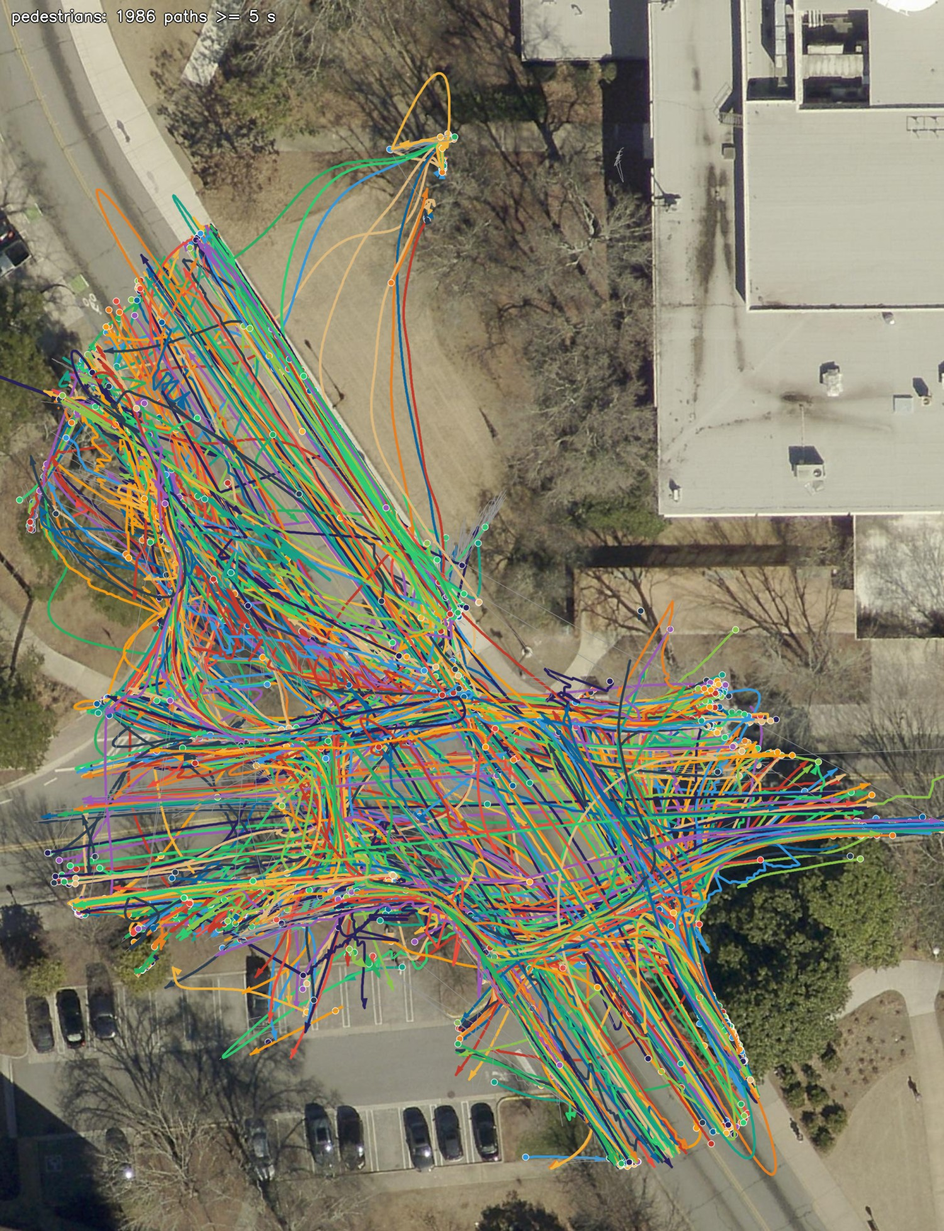
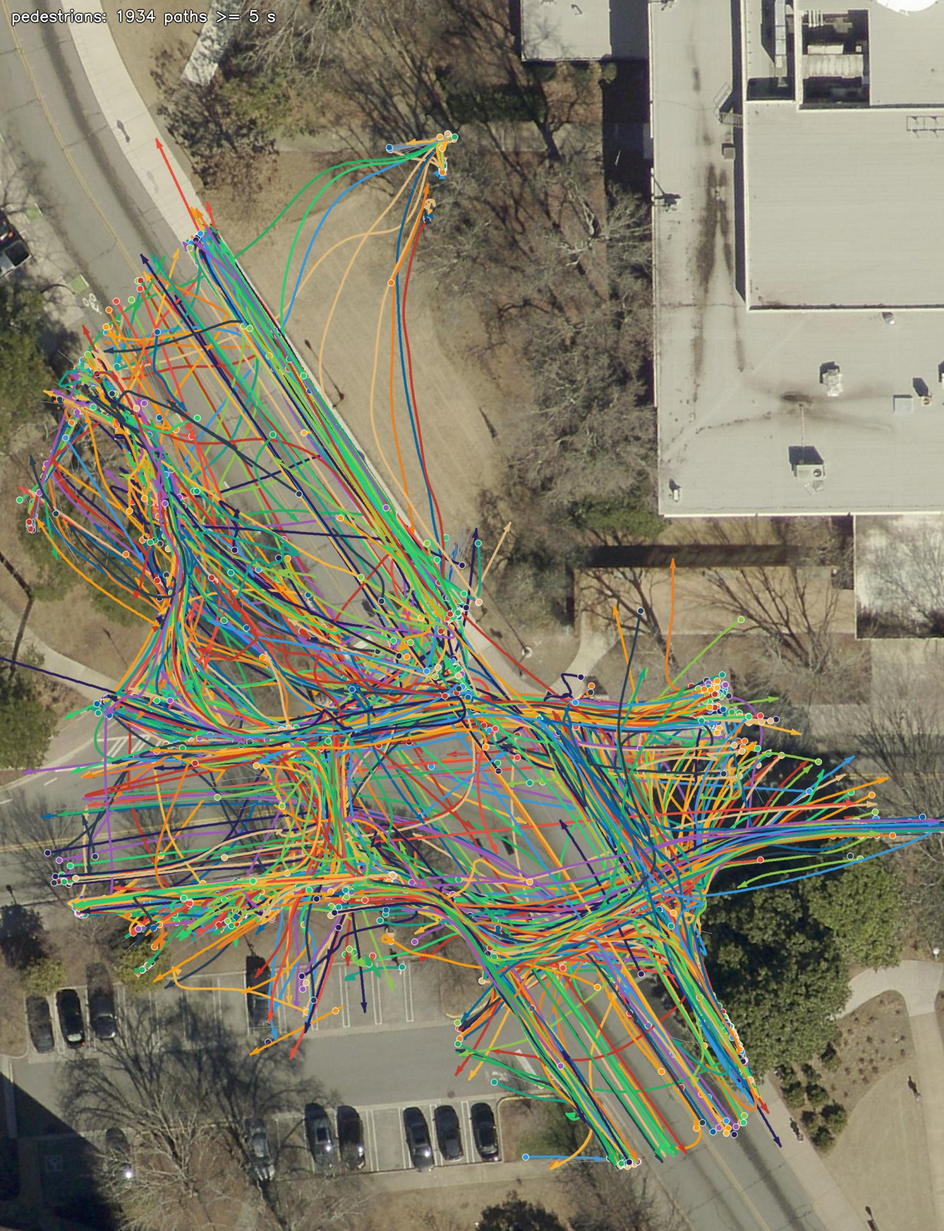
Pedestrians: the smoothed centre only, cut where a body could not have moved
The spikes on pedestrian paths were the measured foot point: a fallback
drew it for 313 tracks whenever the smoothed centre looked lost, and
the foot point is the mask's bottom edge, which wobbles 0.4 m between
frames on ordinary measured rows. The fallback is gone, with everything
that served it (centre_or_foot, reach, the body table, --centre-clamp).

A pedestrian or bicycle is drawn from its smoothed centre, and only in
stretches where a step does not exceed what that body can do (4 m/s for
a person, 10 for a cyclist) and the position lies within what the
cameras can see (55 m from the pole; detections stop at 45). Stretches
under a second are discarded. A short median on the centre was tried
and changed nothing: the 222 "pedestrians" it would have kept move 6 to
9 m/s for ten seconds at a stretch, which is a cyclist labelled person
or two people fused into one, and either way not a pedestrian path.

Paths now break at any missing processed frame rather than only at gaps
over a second, so a cut can never be bridged by a line. The plausibility
report counts pedestrian and bicycle paths too.

71 minutes: 0 vehicle paths and 0 pedestrian paths flagged; 335 vehicle
and 1,934 pedestrian paths drawn; 2,960 objects. render_fused.py uses
the same person_runs(), so the video agrees with the figures.

diff --git a/pipeline/export_tracks.py b/pipeline/export_tracks.py
@@ -22,6 +22,7 @@ queue, the bike box - is never cut. Pedestrians are never cut; standing at a ker
 """
 import argparse
 import csv
+import glob
 import json
 import math
 import os
@@ -136,73 +137,53 @@ def vehicle_runs(T, P, cls, field, min_s=2.0, min_m=5.0):
     return runs
 
 
-BODY = {"Pedestrian": (0.6, 0.5), "Passenger Vehicle": (4.5, 1.9), "Truck": (5.5, 2.1),
-        "Bus": (10.5, 2.6), "Motorcycle": (2.0, 0.8), "Bicycle": (1.8, 0.6)}    # metres, length x width
-
-
-def reach(cls):
-    """how far an object's centre can possibly sit from its own foot point: half its body diagonal,
-    plus 30 cm for where the foot point actually lands. The same bound centre_from_box already
-    enforces inside its own solve (render_demo.py), applied once more to the fused result."""
-    L, W = BODY.get(cls, (4.5, 1.9))
-    return 0.5 * math.hypot(L, W) + 0.3
-
-
-def centre_or_foot(rows, cls, clamp, runaway_share=0.05):
-    """For one object's rows in frame order: where to draw it, or None for a row not to draw.
-    Returns [(e, n, fell_back) | None, ...].
-
-    Each row carries a measured foot point and a Kalman-smoothed centre. The centre is the better
-    position while the smoother is tracking its object, and a runaway when it is not: on this
-    recording one pedestrian's centre ends 676 m from a foot point that never left a 60 m circle.
-    The push, the distance between the two, tells them apart: a real centre cannot be further from
-    its foot point than the body allows, and every class's 99th-percentile push sits near one reach.
-
-    The decision is made once per track, never per row. Before any of this existed, the figures
-    drew the centre alone and had no reversal and no step over 30 m/s on 396 vehicle paths. Three
-    row-wise versions then each drew artefacts: a hard switch flipped a bus every frame (489
-    reversals), hysteresis made the switch itself a 6.8 m jump, and a continuous blend jumped
-    whenever the foot point it was blending toward re-anchored on another part of the car. The
-    centre is smooth and the foot point is not, and any row-wise mix of the two inherits the jumps.
-
-    So: if more than `runaway_share` of a track's rows have a push beyond `clamp` reaches, the
-    smoother has lost this object and the whole track is drawn from the median-smoothed foot
-    point. Otherwise the whole track is drawn from the centre, and the rare rows beyond the bound
-    are dropped, which the caller draws as a break in the line rather than a line across the gap.
-    """
-    if not rows or clamp <= 0 or not rows[0].get("Ec"):
-        return [(float(r["E"]), float(r["N"]), False) for r in rows]
-    hi = clamp * reach(cls)
-    E = np.array([float(r["E"]) for r in rows]); N = np.array([float(r["N"]) for r in rows])
-    half = 2
-    Es = np.array([np.median(E[max(0, i - half):i + half + 1]) for i in range(len(E))])
-    Ns = np.array([np.median(N[max(0, i - half):i + half + 1]) for i in range(len(N))])
-    has = np.array([bool(r.get("Ec")) for r in rows])
-    Ec = np.array([float(r["Ec"]) if r.get("Ec") else np.nan for r in rows])
-    Nc = np.array([float(r["Nc"]) if r.get("Nc") else np.nan for r in rows])
-    push = np.where(has, np.hypot(Ec - Es, Nc - Ns), 0.0)
-    runaway = push > hi
-    if runaway.mean() > runaway_share:                               # the smoother lost this object
-        # For a vehicle there is nothing left to draw. The centre flies off, and the foot point on
-        # such a track jumps several metres in a frame too (eight of these were the last paths the
-        # plausibility check flagged, every one in this state). A vehicle is reported only when
-        # its smoothed position stayed with its measurement. A pedestrian's centre is its foot
-        # point give or take half a metre, so the smoothed foot point is a fair place to draw it.
-        if cls in VEHICLE:
-            return [None] * len(rows)
-        return [(float(Es[i]), float(Ns[i]), True) for i in range(len(rows))]
-    out = []
-    for i in range(len(rows)):
-        if not has[i]:
-            out.append((float(E[i]), float(N[i]), False))
-        elif runaway[i]:
-            out.append(None)                                         # a break, not a line
-        else:
-            out.append((float(Ec[i]), float(Nc[i]), False))
-    return out
-
-
 HEAD_M, HEAD_HALFW_M = 0.8, 0.26                                  # arrow head, metres on the ground
+
+
+MAX_SPEED = {"Pedestrian": 4.0, "Bicycle": 10.0}      # m/s; a sprint is 3 and a fast cyclist 9
+CAMERA_REACH_M = 55.0                                    # detections stop at 45 m; past this is extrapolation
+
+
+def load_pole():
+    """the cameras' mean position, from the solved models; the reach test is measured from here"""
+    cs = []
+    for p in glob.glob(os.path.join(OUTR, "*_fit_pnp", "cam.json")):
+        cs.append(json.load(open(p))["centre"][:2])
+    return np.mean(cs, axis=0) if cs else None
+
+
+def person_runs(T, P, cls, pole, min_s=1.0):
+    """The stretches of a pedestrian or bicycle path worth drawing: moving no faster than a body of
+    that kind can, and within what the cameras can see. Returns a list of index arrays.
+
+    The position is the smoothed centre and nothing else. An earlier version fell back to the
+    measured foot point when the centre looked lost, and the foot point is the mask's bottom edge:
+    it wobbles half a metre between frames, and 313 pedestrian paths came out as rows of thorns.
+    The centre is smooth where the smoother was following its object; where it was not, the
+    centre either jumps (caught by speed) or drifts away (caught by reach), and either way that
+    stretch is cut and the path breaks there.
+    """
+    n = len(P)
+    keep = np.ones(n, bool)
+    vmax = MAX_SPEED.get(cls, 4.0)
+    for i in range(1, n):
+        dt = max(T[i] - T[i - 1], 1e-3)
+        if np.hypot(*(P[i] - P[i - 1])) / dt > vmax:
+            keep[i] = False
+    if pole is not None:
+        keep &= np.hypot(*(P - pole).T) <= CAMERA_REACH_M
+    runs, i = [], 0
+    while i < n:
+        if not keep[i]:
+            i += 1
+            continue
+        j = i
+        while j + 1 < n and keep[j + 1]:
+            j += 1
+        if T[j] - T[i] >= min_s:
+            runs.append(np.arange(i, j + 1))
+        i = j + 1
+    return runs
 
 
 def arrow_head(img, a, b, col, res=0.04):
@@ -233,8 +214,16 @@ def plausibility(by_gid, fps, step_m=0.4):
     was already published, because nothing counted. Now something counts.
     """
     bad = []
+    slow = 0
     for gid, os_ in by_gid.items():
-        if os_[0]["cls"] not in VEHICLE or len(os_) < 20:
+        if len(os_) < 20:
+            continue
+        F = np.array([o["frame"] for o in os_])
+        inside = np.diff(F) <= 3                                           # steps within one drawn piece only
+        if os_[0]["cls"] not in VEHICLE:
+            P = np.array([[o["E"], o["N"]] for o in os_]); T = np.array([o["t_sec"] for o in os_])
+            v = np.hypot(*np.diff(P, axis=0).T) / np.maximum(np.diff(T), 1.0 / fps)
+            slow += bool((v[inside] > 1.05 * MAX_SPEED.get(os_[0]["cls"], 4.0)).any())   # 5% for t_sec rounding
             continue
         P = np.array([[o["E"], o["N"]] for o in os_])
         T = np.array([o["t_sec"] for o in os_])
@@ -247,17 +236,19 @@ def plausibility(by_gid, fps, step_m=0.4):
         if rev or top > 30:
             bad.append((rev, top, gid, os_[0]["cls"]))
     bad.sort(reverse=True)
-    print("plausibility: %d vehicle paths with a reversal or a step over 30 m/s" % len(bad))
+    print("plausibility: %d vehicle paths with a reversal or a step over 30 m/s; %d pedestrian or bicycle "
+          "paths with a step faster than the body can move" % (len(bad), slow))
     for rev, top, gid, cls in bad[:8]:
         print("   gid %-6d %-18s %3d reversals, fastest step %5.1f m/s" % (gid, cls, rev, top))
     return len(bad)
 
 
 def pieces(os_, mpx, fps, gap_s=1.0):
-    """a path split wherever rows are missing, so a dropped stretch is a break and not a long line"""
+    """a path split wherever a processed frame is missing, so a cut stretch is a break and never a
+    line drawn across it; every second frame was processed, so consecutive rows are two frames apart"""
     out, run = [], []
     for o in os_:
-        if run and o["t_sec"] - run[-1]["t_sec"] > gap_s:
+        if run and o["frame"] - run[-1]["frame"] > 3:
             out.append(run); run = []
         run.append(o)
     if run:
@@ -277,10 +268,6 @@ def main():
     ap.add_argument("--lane-field", default=os.path.join(OUTR, "lane_field_sanford_cedar.json"),
                     help="build_lane_field.py output; vehicle positions off it are not drawn")
     ap.add_argument("--min-s", type=float, default=3.0, help="paths shorter than this are drawn grey")
-    ap.add_argument("--centre-clamp", type=float, default=3.0,
-                    help="pedestrians and bicycles: a track with more than 5%% of rows pushed beyond "
-                         "this many body-reaches from its own foot point is drawn from the smoothed "
-                         "foot point; 0 disables the check")
     a = ap.parse_args()
     os.makedirs(a.out, exist_ok=True)
 
@@ -321,7 +308,8 @@ def main():
     field = load_lane_field(a.lane_field) if a.lane_field and os.path.exists(a.lane_field) else None
     if field is None:
         print("no lane field: vehicles are checked for curvature only (build one with build_lane_field.py)")
-    out_rows, summary, clamped, emptied, lot_hidden, not_vehicle, cut_rows = [], [], 0, 0, 0, 0, 0
+    pole = load_pole()
+    out_rows, summary, lot_hidden, not_vehicle, not_person, cut_rows = [], [], 0, 0, 0, 0
     for gid, rs in sorted(rows.items()):
         cls = rs[0]["cls"]
         if cls in VEHICLE:
@@ -345,19 +333,16 @@ def main():
             rs = [rs[i] for i in keep]
             pts = [(int(frames[i]), float(P[i][0]), float(P[i][1])) for i in keep]
         else:
-            placed = centre_or_foot(rs, cls, a.centre_clamp)
-            pts, rs2 = [], []
-            for r, pos in zip(rs, placed):
-                if pos is None:
-                    clamped += 1
-                    continue
-                e, n, fell_back = pos
-                pts.append((int(r["frame"]), e, n)); rs2.append(r)
-                clamped += fell_back
-            rs = rs2
-            if len(pts) < 2:
-                emptied += 1
+            frames = np.array([int(r["frame"]) for r in rs])
+            P = np.array([[float(r["Ec"] or r["E"]), float(r["Nc"] or r["N"])] for r in rs])
+            runs = person_runs(frames / a.fps, P, cls, pole)
+            if not runs:
+                not_person += 1
                 continue
+            keep = np.concatenate(runs)
+            cut_rows += len(rs) - len(keep)
+            rs = [rs[i] for i in keep]
+            pts = [(int(frames[i]), float(P[i][0]), float(P[i][1])) for i in keep]
 
         path = 0.0
         for k in range(len(pts) - 1):
@@ -434,10 +419,10 @@ def main():
         print("%s: %d paths drawn" % (tag, drawn))
 
     plausibility(by_gid, a.fps)
-    print("%d objects, %d rows written; vehicles: %d hidden in the parking bays, %d with no stretch "
-          "that moves like a vehicle on the lanes, %d rows cut off the lanes or inside a turn too tight; "
-          "pedestrians: %d rows placed at or dropped for a runaway centre, %d objects emptied"
-          % (len(summary), len(out_rows), lot_hidden, not_vehicle, cut_rows, clamped, emptied))
+    print("%d objects, %d rows written; %d vehicles hidden in the parking bays; %d vehicles and %d people "
+          "with no stretch that moves like one; %d rows cut (off the lanes, inside a turn too tight, "
+          "faster than a body can move, or beyond the cameras' reach)"
+          % (len(summary), len(out_rows), lot_hidden, not_vehicle, not_person, cut_rows))
 
 
 if __name__ == "__main__":

diff --git a/pipeline/render_fused.py b/pipeline/render_fused.py
@@ -68,6 +68,7 @@ def main():
     with open(os.path.join(a.clipdir, "fused.csv"), encoding="utf-8") as f:
         for r in csv.DictReader(f): by_gid[int(r["gid"])].append(r)
     field = ET.load_lane_field(a.lane_field) if a.lane_field and os.path.exists(a.lane_field) else None
+    pole = ET.load_pole()
     for g, rs in by_gid.items():
         rs.sort(key=lambda r: int(r["frame"]))
         # Ec/Nc = vehicle centre (fuse_tracks.py pushes each camera's foot point before averaging); older
@@ -83,10 +84,18 @@ def main():
             keep_ = set(int(i) for run in runs for i in run)
             clamped += len(rs) - len(keep_)
             pos = [(float(P_[i][0]), float(P_[i][1]), False) if i in keep_ else None for i in range(len(rs))]
+        elif centred:
+            # people and bicycles: the smoothed centre, cut where it moves faster than a body can or
+            # drifts beyond the cameras' reach (export_tracks.person_runs); never the raw foot point
+            P_ = np.array([[float(r["Ec"]), float(r["Nc"])] for r in rs])
+            T_ = np.array([int(r["frame"]) for r in rs]) / fps
+            runs = ET.person_runs(T_, P_, cls_, pole)
+            keep_ = set(int(i) for run in runs for i in run)
+            clamped += len(rs) - len(keep_)
+            pos = [(float(P_[i][0]), float(P_[i][1]), False) if i in keep_ else None for i in range(len(rs))]
         else:
-            pos = ET.centre_or_foot(rs, cls_, a.centre_clamp) if centred else [(float(r["E"]), float(r["N"]), False) for r in rs]
+            pos = [(float(r["E"]), float(r["N"]), False) for r in rs]
         if rs and all(p is None for p in pos):                            # nothing of this object is drawable
-            clamped += sum(1 for p in pos if p is None) if cls_ not in ET.VEHICLE else 0
             continue
         for r, p in zip(rs, pos):
             if p is None:                                                 # not drawn this frame

diff --git a/README.md b/README.md
@@ -13,7 +13,7 @@ measured against a survey-grade GNSS track and a lidar, not estimated.
 pedestrian, one identity each, wherever they are. The whole minute is in
 [`figures/fused_demo.mp4`](figures/fused_demo.mp4).*
 
-## 3,770 road users in 71 minutes
+## 2,960 road users in 71 minutes
 
 ![Vehicle paths over one minute](figures/1min_vehicles.jpg)
 
@@ -34,7 +34,7 @@ from the same afternoon. That recording is not in the repository, only its figur
 
 ![Pedestrian paths over 71 minutes](figures/71min_pedestrians.jpg)
 
-*1,986 pedestrian paths, drawn the same way. This is the point at which lines stop working.*
+*1,934 pedestrian paths, drawn the same way. This is the point at which lines stop working.*
 
 ![Pedestrian presence](figures/71min_density_pedestrians.jpg)
 
